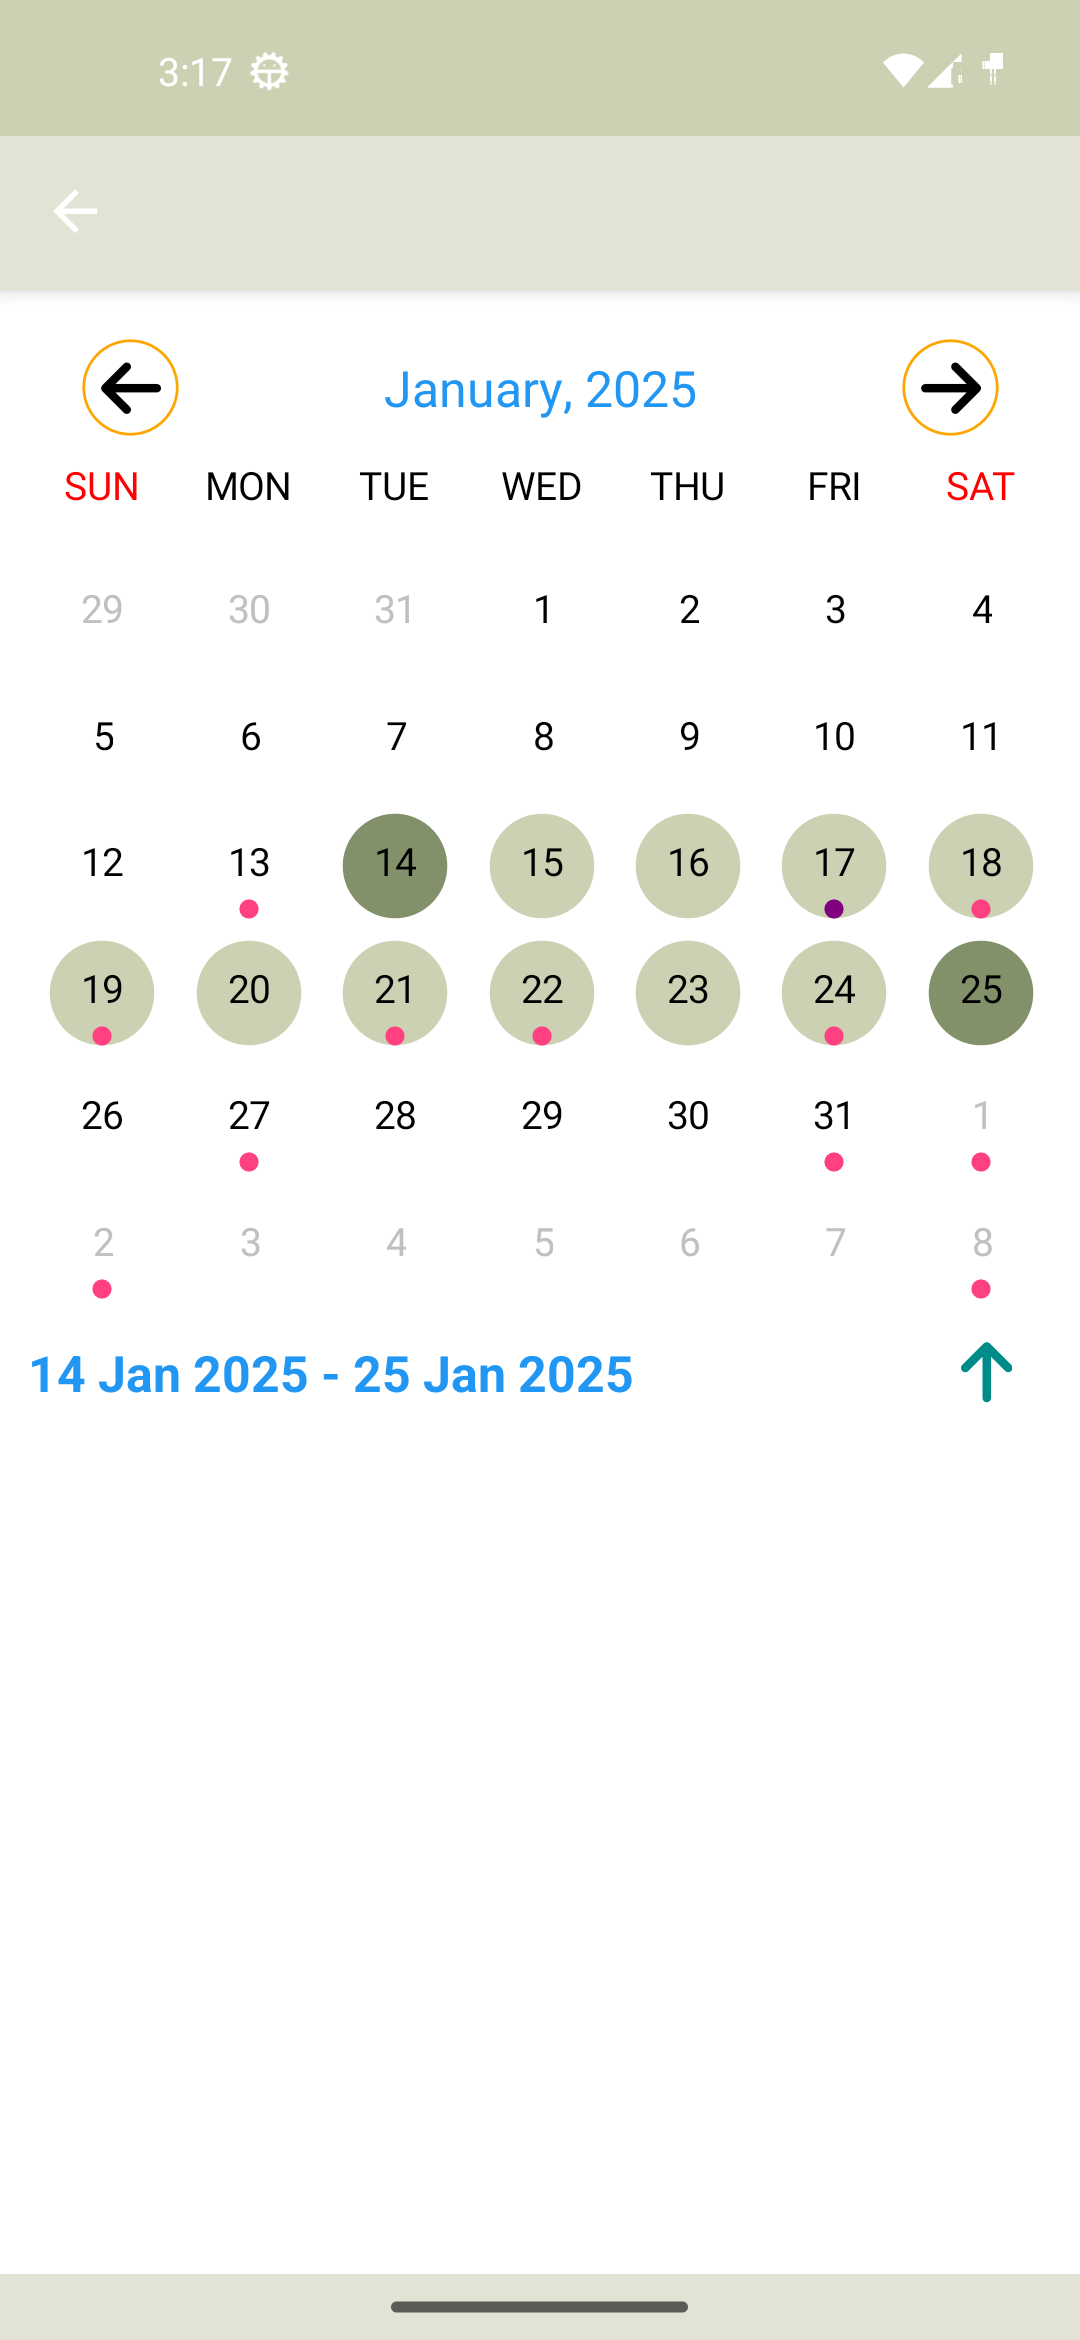
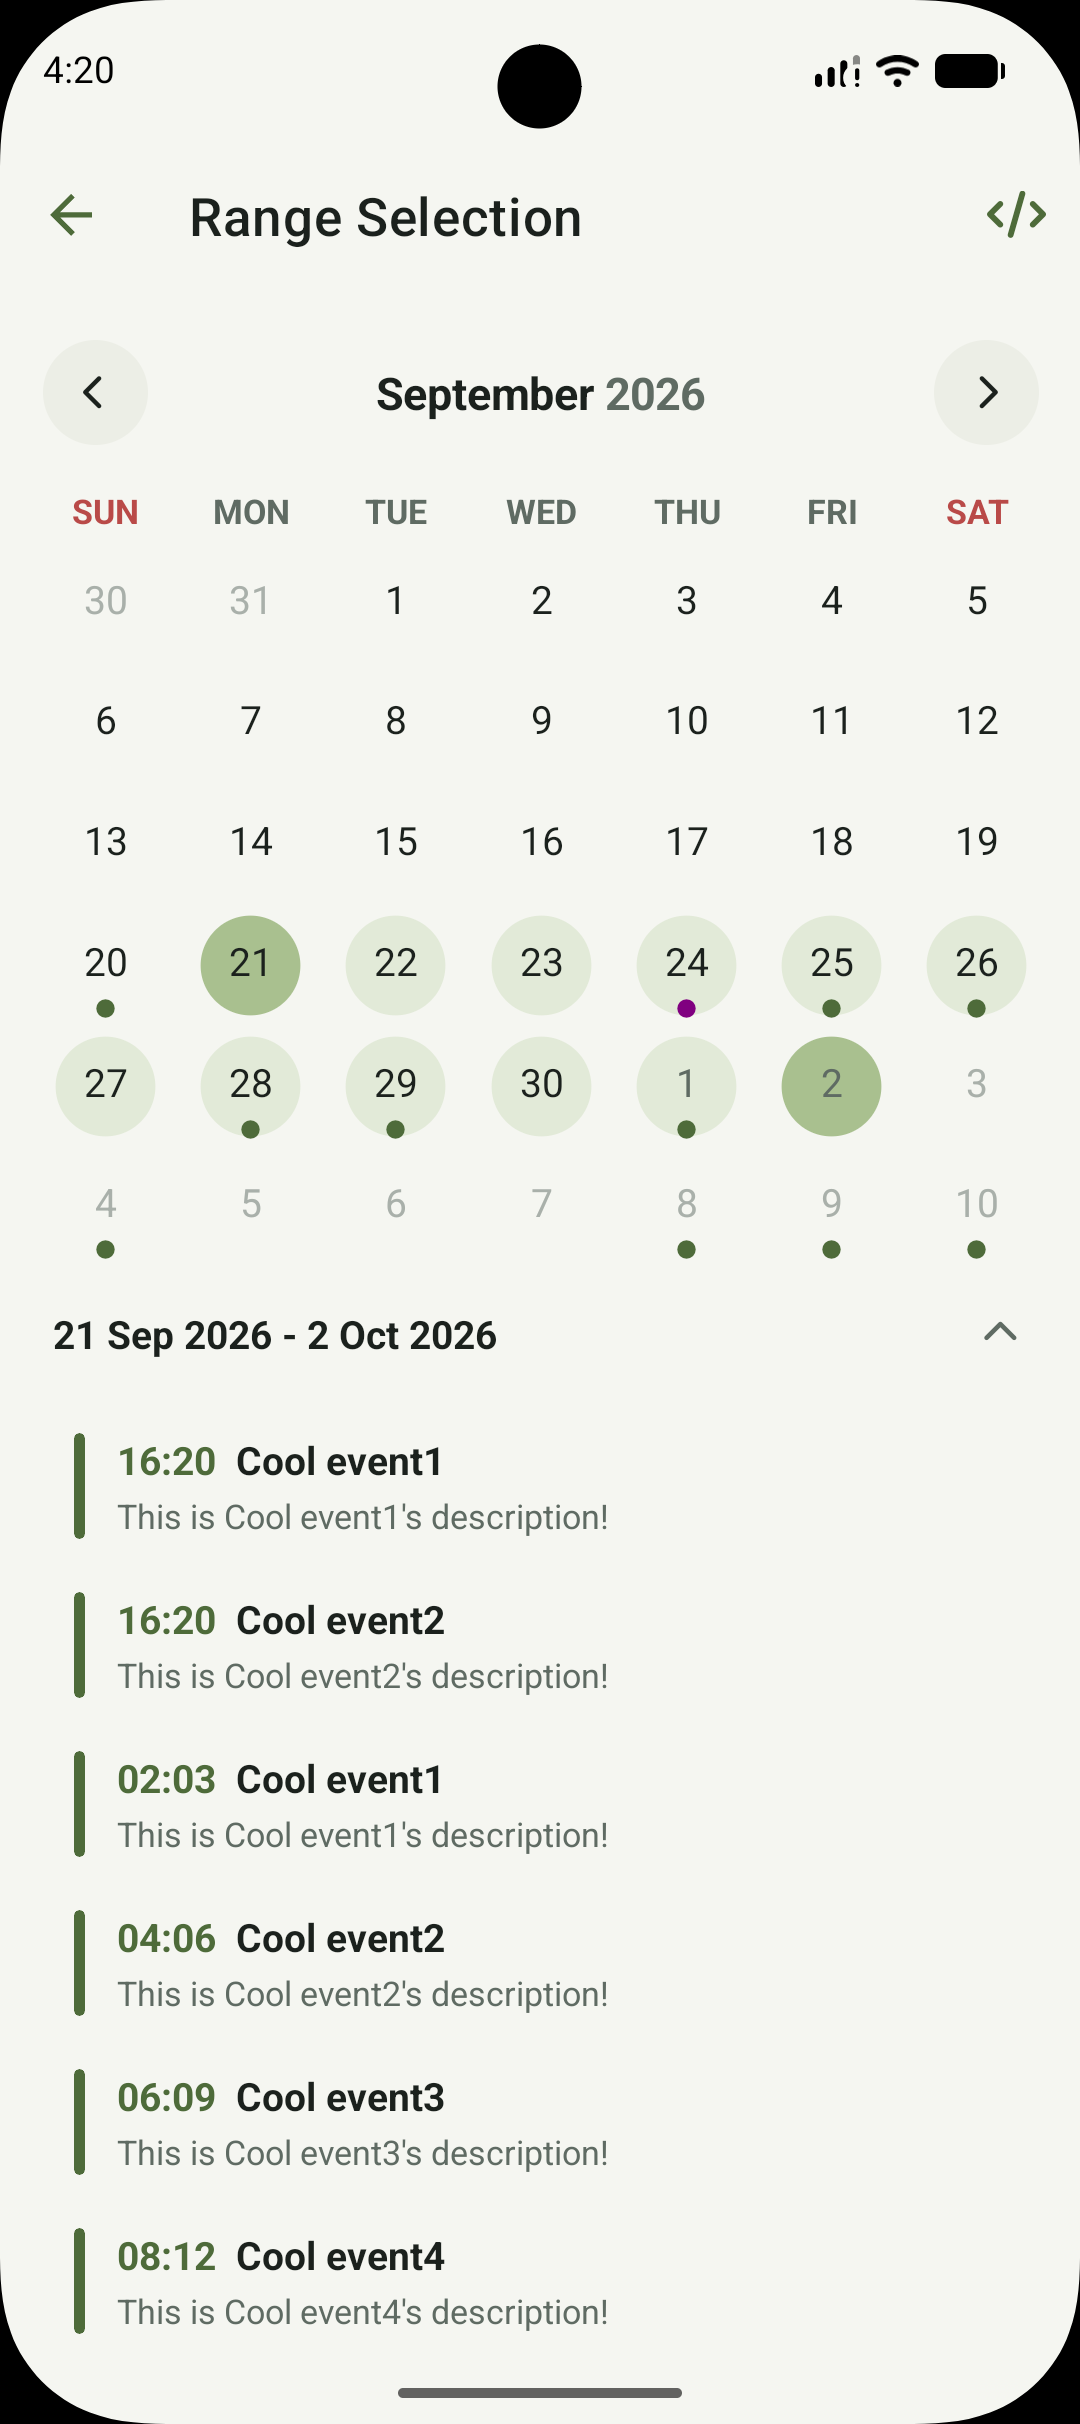
updated res

diff --git a/README.md b/README.md
@@ -50,9 +50,7 @@ A calendar control built from .NET MAUI views only, with no platform-specific co
 
 ## Screenshots
 
-| Android | iOS | Windows | Mac |
-| ------- | --- | ------- | --- |
-| ![Android calendar](https://raw.githubusercontent.com/yurkinh/Plugin.Maui.Calendar/main/res/android.png) | ![iPhone calendar](https://raw.githubusercontent.com/yurkinh/Plugin.Maui.Calendar/main/res/ios.png) | ![Windows calendar](https://raw.githubusercontent.com/yurkinh/Plugin.Maui.Calendar/main/res/win.png) | ![Mac calendar](https://raw.githubusercontent.com/yurkinh/Plugin.Maui.Calendar/main/res/mac.png) |
+![The calendar on Android, iOS, Windows and Mac](https://raw.githubusercontent.com/yurkinh/Plugin.Maui.Calendar/main/res/platforms.png)
 
 The sample app in a light and a dark theme, and its settings:
 
